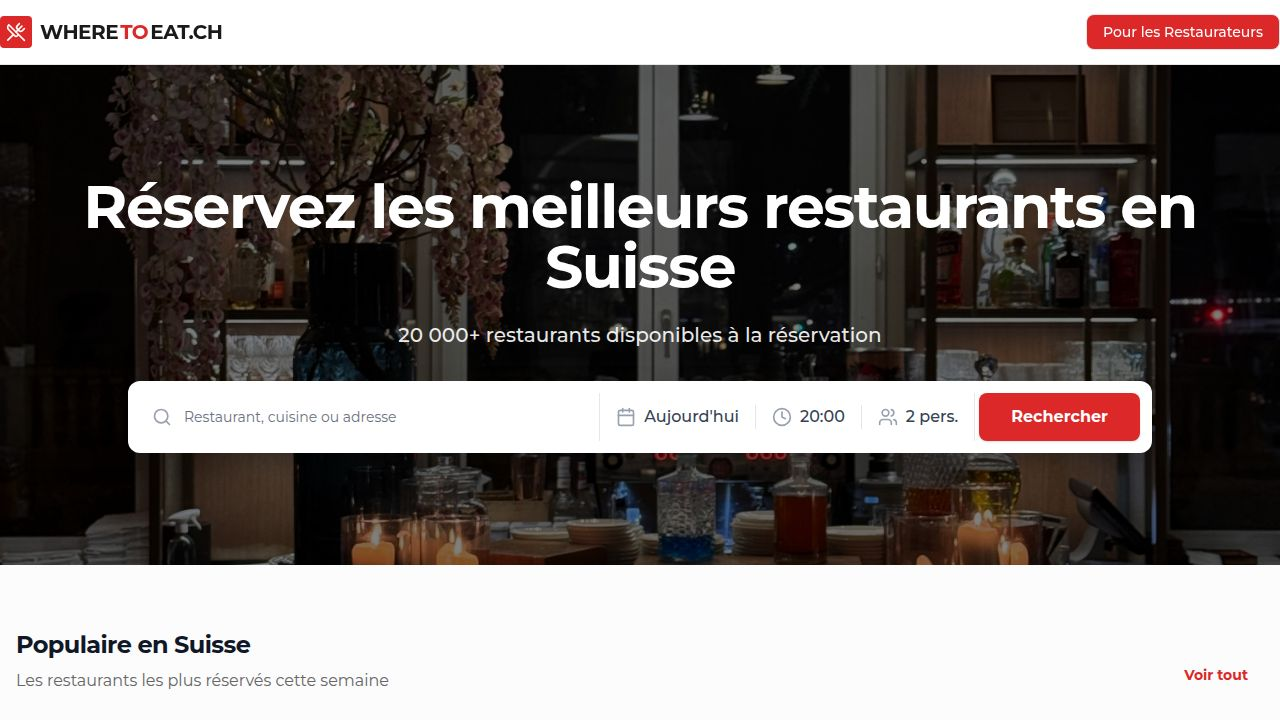
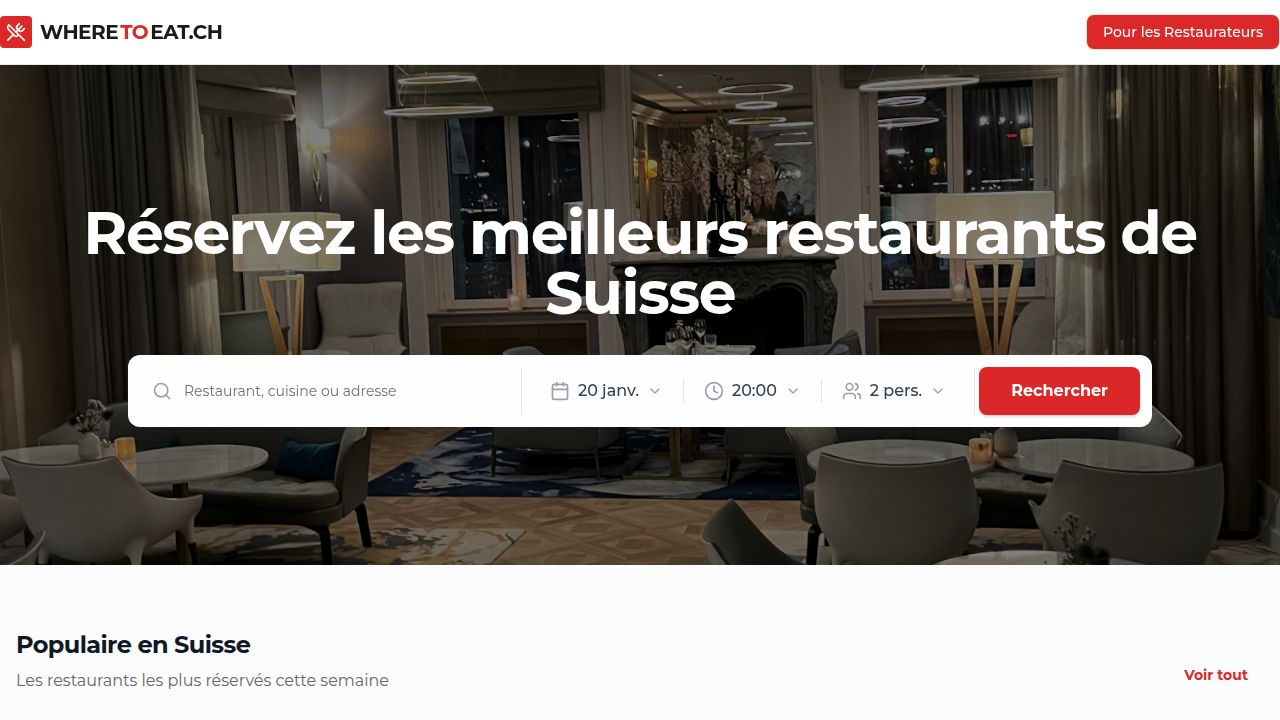
Make restaurant search bar functional with date, time, and guest selection
Adds interactive date, time, and guest selectors to the homepage search bar using Popover components in Home.tsx.

Replit-Commit-Author: Agent
Replit-Commit-Session-Id: 8a8e0cf6-4d0c-465b-a4f4-a4e004b75698
Replit-Commit-Checkpoint-Type: full_checkpoint
Replit-Commit-Event-Id: 03fbcec2-b5ed-4414-8ce5-a00ce940fed2
Replit-Commit-Screenshot-Url: https://storage.googleapis.com/screenshot-production-us-central1/01c54e15-e11a-4733-9538-d4b00b86a088/8a8e0cf6-4d0c-465b-a4f4-a4e004b75698/YWeA5mO
Replit-Helium-Checkpoint-Created: true

diff --git a/client/src/pages/Home.tsx b/client/src/pages/Home.tsx
@@ -2,7 +2,7 @@ import { useEffect, useState, useMemo } from "react";
 import { useLocation } from "wouter";
 import { Navbar } from "@/components/layout/Navbar";
 import { RestaurantCard } from "@/components/RestaurantCard";
-import { Search, MapPin, Calendar, Clock, Users } from "lucide-react";
+import { Search, MapPin, Calendar, Clock, Users, ChevronDown } from "lucide-react";
 import { Input } from "@/components/ui/input";
 import { Button } from "@/components/ui/button";
 import heroImage from '@assets/IMG_9005_1768766651152.jpeg';
@@ -11,12 +11,29 @@ import { useQuery } from "@tanstack/react-query";
 import { fetchRestaurants } from "@/lib/api";
 import { useAuth } from "@/hooks/useAuth";
 import type { Restaurant } from "@shared/schema";
+import { Popover, PopoverContent, PopoverTrigger } from "@/components/ui/popover";
+import { Calendar as CalendarComponent } from "@/components/ui/calendar";
+import { format } from "date-fns";
+import { fr } from "date-fns/locale";
+
+const TIME_OPTIONS = [
+  "11:00", "11:30", "12:00", "12:30", "13:00", "13:30", "14:00",
+  "18:00", "18:30", "19:00", "19:30", "20:00", "20:30", "21:00", "21:30", "22:00"
+];
+
+const GUEST_OPTIONS = [1, 2, 3, 4, 5, 6, 7, 8, 9, 10, 11, 12];
 
 export default function Home() {
   const [, setLocation] = useLocation();
   const { user, isAuthenticated, isLoading: authLoading } = useAuth();
   const [searchQuery, setSearchQuery] = useState("");
   const [hasSearched, setHasSearched] = useState(false);
+  const [selectedDate, setSelectedDate] = useState<Date>(new Date());
+  const [selectedTime, setSelectedTime] = useState("20:00");
+  const [selectedGuests, setSelectedGuests] = useState(2);
+  const [dateOpen, setDateOpen] = useState(false);
+  const [timeOpen, setTimeOpen] = useState(false);
+  const [guestsOpen, setGuestsOpen] = useState(false);
   
   const { data: myRestaurants = [] } = useQuery<Restaurant[]>({
     queryKey: ["/api/my-restaurants"],
@@ -93,22 +110,109 @@ export default function Home() {
                 />
               </div>
 
-              {/* Date/Time/People Selectors (Visual Only) */}
-              <div className="hidden md:flex items-center gap-4 px-4 h-12 md:border-r border-gray-200 min-w-fit cursor-pointer hover:bg-gray-50 transition-colors">
-                 <div className="flex items-center gap-2">
-                    <Calendar className="h-5 w-5 text-gray-400" />
-                    <span className="text-gray-700 font-medium">Aujourd'hui</span>
-                 </div>
+              {/* Date/Time/People Selectors */}
+              <div className="hidden md:flex items-center gap-2 px-4 h-12 md:border-r border-gray-200 min-w-fit">
+                 {/* Date Selector */}
+                 <Popover open={dateOpen} onOpenChange={setDateOpen}>
+                   <PopoverTrigger asChild>
+                     <button 
+                       className="flex items-center gap-2 px-3 py-2 rounded-md hover:bg-gray-100 transition-colors"
+                       data-testid="button-date-selector"
+                     >
+                       <Calendar className="h-5 w-5 text-gray-400" />
+                       <span className="text-gray-700 font-medium">
+                         {format(selectedDate, "d MMM", { locale: fr })}
+                       </span>
+                       <ChevronDown className="h-4 w-4 text-gray-400" />
+                     </button>
+                   </PopoverTrigger>
+                   <PopoverContent className="w-auto p-0" align="start">
+                     <CalendarComponent
+                       mode="single"
+                       selected={selectedDate}
+                       onSelect={(date) => {
+                         if (date) {
+                           setSelectedDate(date);
+                           setDateOpen(false);
+                         }
+                       }}
+                       locale={fr}
+                       disabled={(date) => date < new Date(new Date().setHours(0, 0, 0, 0))}
+                     />
+                   </PopoverContent>
+                 </Popover>
+
                  <Separator orientation="vertical" className="h-6" />
-                 <div className="flex items-center gap-2">
-                    <Clock className="h-5 w-5 text-gray-400" />
-                    <span className="text-gray-700 font-medium">20:00</span>
-                 </div>
+                 
+                 {/* Time Selector */}
+                 <Popover open={timeOpen} onOpenChange={setTimeOpen}>
+                   <PopoverTrigger asChild>
+                     <button 
+                       className="flex items-center gap-2 px-3 py-2 rounded-md hover:bg-gray-100 transition-colors"
+                       data-testid="button-time-selector"
+                     >
+                       <Clock className="h-5 w-5 text-gray-400" />
+                       <span className="text-gray-700 font-medium">{selectedTime}</span>
+                       <ChevronDown className="h-4 w-4 text-gray-400" />
+                     </button>
+                   </PopoverTrigger>
+                   <PopoverContent className="w-48 p-2" align="start">
+                     <div className="grid grid-cols-2 gap-1 max-h-64 overflow-y-auto">
+                       {TIME_OPTIONS.map((time) => (
+                         <button
+                           key={time}
+                           className={`px-3 py-2 text-sm rounded-md transition-colors ${
+                             selectedTime === time 
+                               ? "bg-primary text-white" 
+                               : "hover:bg-gray-100 text-gray-700"
+                           }`}
+                           onClick={() => {
+                             setSelectedTime(time);
+                             setTimeOpen(false);
+                           }}
+                         >
+                           {time}
+                         </button>
+                       ))}
+                     </div>
+                   </PopoverContent>
+                 </Popover>
+
                  <Separator orientation="vertical" className="h-6" />
-                 <div className="flex items-center gap-2">
-                    <Users className="h-5 w-5 text-gray-400" />
-                    <span className="text-gray-700 font-medium">2 pers.</span>
-                 </div>
+                 
+                 {/* Guests Selector */}
+                 <Popover open={guestsOpen} onOpenChange={setGuestsOpen}>
+                   <PopoverTrigger asChild>
+                     <button 
+                       className="flex items-center gap-2 px-3 py-2 rounded-md hover:bg-gray-100 transition-colors"
+                       data-testid="button-guests-selector"
+                     >
+                       <Users className="h-5 w-5 text-gray-400" />
+                       <span className="text-gray-700 font-medium">{selectedGuests} pers.</span>
+                       <ChevronDown className="h-4 w-4 text-gray-400" />
+                     </button>
+                   </PopoverTrigger>
+                   <PopoverContent className="w-48 p-2" align="start">
+                     <div className="grid grid-cols-3 gap-1 max-h-64 overflow-y-auto">
+                       {GUEST_OPTIONS.map((num) => (
+                         <button
+                           key={num}
+                           className={`px-3 py-2 text-sm rounded-md transition-colors ${
+                             selectedGuests === num 
+                               ? "bg-primary text-white" 
+                               : "hover:bg-gray-100 text-gray-700"
+                           }`}
+                           onClick={() => {
+                             setSelectedGuests(num);
+                             setGuestsOpen(false);
+                           }}
+                         >
+                           {num} pers.
+                         </button>
+                       ))}
+                     </div>
+                   </PopoverContent>
+                 </Popover>
               </div>
 
               <div className="w-full md:w-auto p-1">
